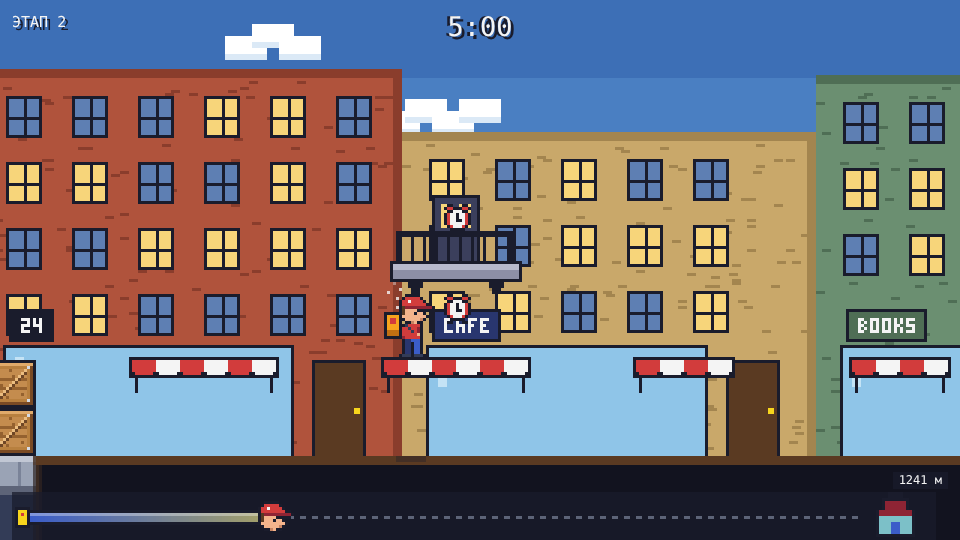
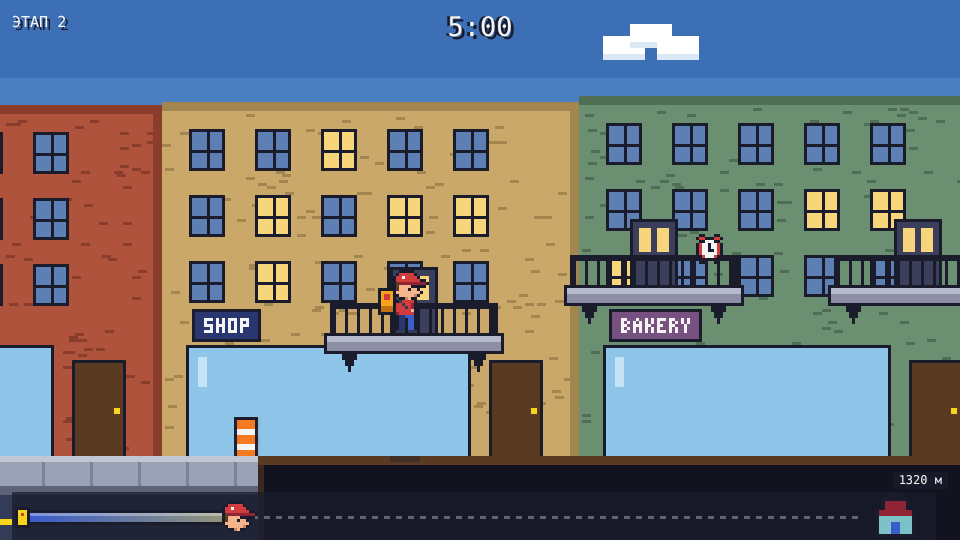
Balconies as the core mechanic: balcony chains over pits and over busy pavement, far more balconies per level
Claude-Session: https://claude.ai/code/session_015jkYj5TZRwZghbMqW5hfRf

diff --git a/js/game.js b/js/game.js
@@ -125,7 +125,7 @@ function generateObstacles(r) {
       // An upper route: a balcony right above a wide awning, reached by jumping
       // straight up from it, often with a clock. It stops short of the awning's
       // end so that dropping off it still reaches the next awning.
-      if (i >= 1 && aw === 48 && r() < 0.6) {
+      if (i >= 1 && aw === 48 && r() < 0.8) {
         balconyList.push([ax + 4, 88, 40]);
         if (r() < 0.6) clock(ax + 24, 74);
       }
@@ -182,15 +182,61 @@ function generateObstacles(r) {
     return end - x + 72; // room to land after dropping off the top
   }
 
+  // The core piece: a chain of balconies along the house fronts at changing
+  // heights. Over a pit it is the only way across; over a stretch of pavement
+  // with people and puddles it is the safer upper route, with boxes to hop and
+  // clocks to grab. Balconies are 56 px wide and the gaps 24–32 px, so a full
+  // jump from the edge lands on the next one going up, level or down.
+  function balconyRun(x, d) {
+    const overPit = r() < 0.4 + d * 0.3;
+    const n = 3 + Math.floor(r() * (2 + d * 2));
+    const W = 56;
+    let y = 112; // the first one can be reached from the pavement
+    let bx = x + 24;
+    const spots = [];
+    for (let i = 0; i < n; i++) {
+      balconyList.push([bx, y, W]);
+      spots.push([bx, y]);
+      if (i === n - 1) break;
+      const dy = i === 0 ? pick([0, -16, -16]) : pick([-16, 0, 16, 32]);
+      const ny = Math.max(80, Math.min(112, y + dy));
+      bx += W + (ny < y ? step4(24, 28) : step4(24, 32));
+      y = ny;
+    }
+    const end = bx + W + 28;
+    // A clock on one of the balconies, at its far end so it never needs a hop
+    if (r() < 0.45) {
+      const [cx, cy] = spots[1 + Math.floor(r() * (spots.length - 1))];
+      clock(cx + W - 10, cy - 14);
+    }
+    if (overPit) {
+      pits.push({ x, w: end - x });
+    } else {
+      // Down on the pavement: people and puddles; up top: a box or two in the way
+      if (r() < 0.7) {
+        pedestrians.push({
+          x: x + r() * (end - x), min: x, max: end, dir: r() < 0.5 ? -1 : 1,
+          speed: 26 + r() * (16 + d * 20), look: Math.floor(r() * 4), anim: 0,
+        });
+      }
+      if (r() < 0.5) puddles.push({ x: x + 40 + Math.floor(r() * 40), w: 48 + Math.floor(r() * 3) * 8 });
+      for (const [sx, sy] of spots.slice(1)) {
+        if (r() < 0.3) crateList.push([sx + W / 2 - 8, sy - 16]);
+      }
+    }
+    return end - x;
+  }
+
   let x = START;
   while (x < END) {
     const d = (x - START) / (END - START); // difficulty 0 → 1 along the street
     const roll = r();
     let width;
-    if (roll < 0.14 + d * 0.22) {
+    if (roll < 0.24 + d * 0.22) {
       // Parkour section
       // plus room to land: dropping off the last platform carries you ~80 px
-      width = pick([pillars, bridge, stairs, tower, balconies])(x, d) + 56;
+      // Balconies are the backbone: chains of them come up most often
+      width = pick([balconyRun, balconyRun, balconyRun, balconies, bridge, pillars, stairs, tower])(x, d) + 56;
     } else if (roll < 0.36 + d * 0.16) {
       // Pit: 32 px early on, up to 48 px later (a full-speed jump clears about 54)
       width = 32 + Math.floor(r() * (1 + d * 1.99)) * 8;

diff --git a/index.html b/index.html
@@ -7,7 +7,7 @@
   <link rel="preconnect" href="https://fonts.googleapis.com">
   <link rel="preconnect" href="https://fonts.gstatic.com" crossorigin>
   <link href="https://fonts.googleapis.com/css2?family=Press+Start+2P&display=swap" rel="stylesheet">
-  <link rel="stylesheet" href="style.css?v=14">
+  <link rel="stylesheet" href="style.css?v=15">
 </head>
 <body>
   <main id="stage">
@@ -47,8 +47,8 @@
     <button class="pad-jump" data-action="jump" aria-label="Прыжок">A</button>
   </div>
 
-  <script src="js/audio.js?v=14"></script>
-  <script src="js/sprites.js?v=14"></script>
-  <script src="js/game.js?v=14"></script>
+  <script src="js/audio.js?v=15"></script>
+  <script src="js/sprites.js?v=15"></script>
+  <script src="js/game.js?v=15"></script>
 </body>
 </html>

diff --git a/README.md b/README.md
@@ -38,12 +38,16 @@
     - лужи замедляют вдвое;
     - высокие стены из ящиков с лесенками, ямы за ящиками, ящики посреди луж;
     - паркур над провалами: столбы из ящиков, мост из навесов, лестница из навесов вверх-вниз, башня из 4 ящиков с прыжком через яму;
-    - балконы над навесами: ящик → навес → балкон с коробками → иногда второй балкон ещё выше;
-    - над мостами из навесов есть балконы: верхний маршрут, часто с часиками.
-  - **Каждый забег — новый уровень.** Препятствия, часики, дома и вывески раскладываются случайно при каждом запуске и после «Ещё раз». Правила генерации гарантируют, что уровень проходим: проверено ботом на 66 случайных уровнях, все пройдены.
+    - **балконы — основная механика.** Чаще всего встречаются цепочки из 3–6 балконов на разной высоте вдоль фасадов:
+      - над провалом: запрыгиваешь с тротуара на первый и скачешь с балкона на балкон, иначе не пройти;
+      - над тротуаром с прохожими и лужами: можно бежать внизу, рискуя, или поверху, перепрыгивая коробки на балконах и собирая часики;
+    - подъём на дом: ящик → навес → балкон с коробками → иногда второй балкон ещё выше с золотыми часиками;
+    - над мостами из навесов тоже балконы: верхний маршрут, часто с часиками.
+  - На уровне 40–65 балконов.
+  - **Каждый забег — новый уровень.** Препятствия, часики, дома и вывески раскладываются случайно при каждом запуске и после «Ещё раз». Правила генерации гарантируют, что уровень проходим: проверено ботом на 100+ случайных уровнях, все пройдены.
   - Часики по маршруту: красные дают +5 секунд, золотые (на верхних балконах) +15. Висят в трудных местах: над ямами, на башнях, на балконах, над лестницами из навесов. Таймер вспыхивает зелёным, на финише показано, сколько собрано.
   - Препятствия стоят плотно, к концу улицы ещё плотнее и паркура больше. Все прыжки рассчитаны так, чтобы полный прыжок с края долетал (проверено автоматическим прохождением).
-  - Без часиков даже безошибочный забег укладывается впритык (около 4:45), так что часики нужны. Бот на случайных уровнях финишировал с запасом от 43 до 124 секунд.
+  - Без часиков даже безошибочный забег укладывается впритык (около 4:45), так что часики нужны. Бот на случайных уровнях финишировал с запасом от 36 до 132 секунд.
   - Таймер 5:00 сверху: на последней минуте желтеет, на последних 30 секундах краснеет и мигает, последние 10 секунд тикают часы.
   - Линия пути внизу экрана: голова курьера едет по ней, за ней плавно тянется цветной след (от синего к красному), впереди пунктир до домика; над линией остаток пути в метрах.
   - Ящики двух видов: деревянные с распоркой и гвоздями и картонные коробки со скотчем, наклейкой и стрелками «верх».
